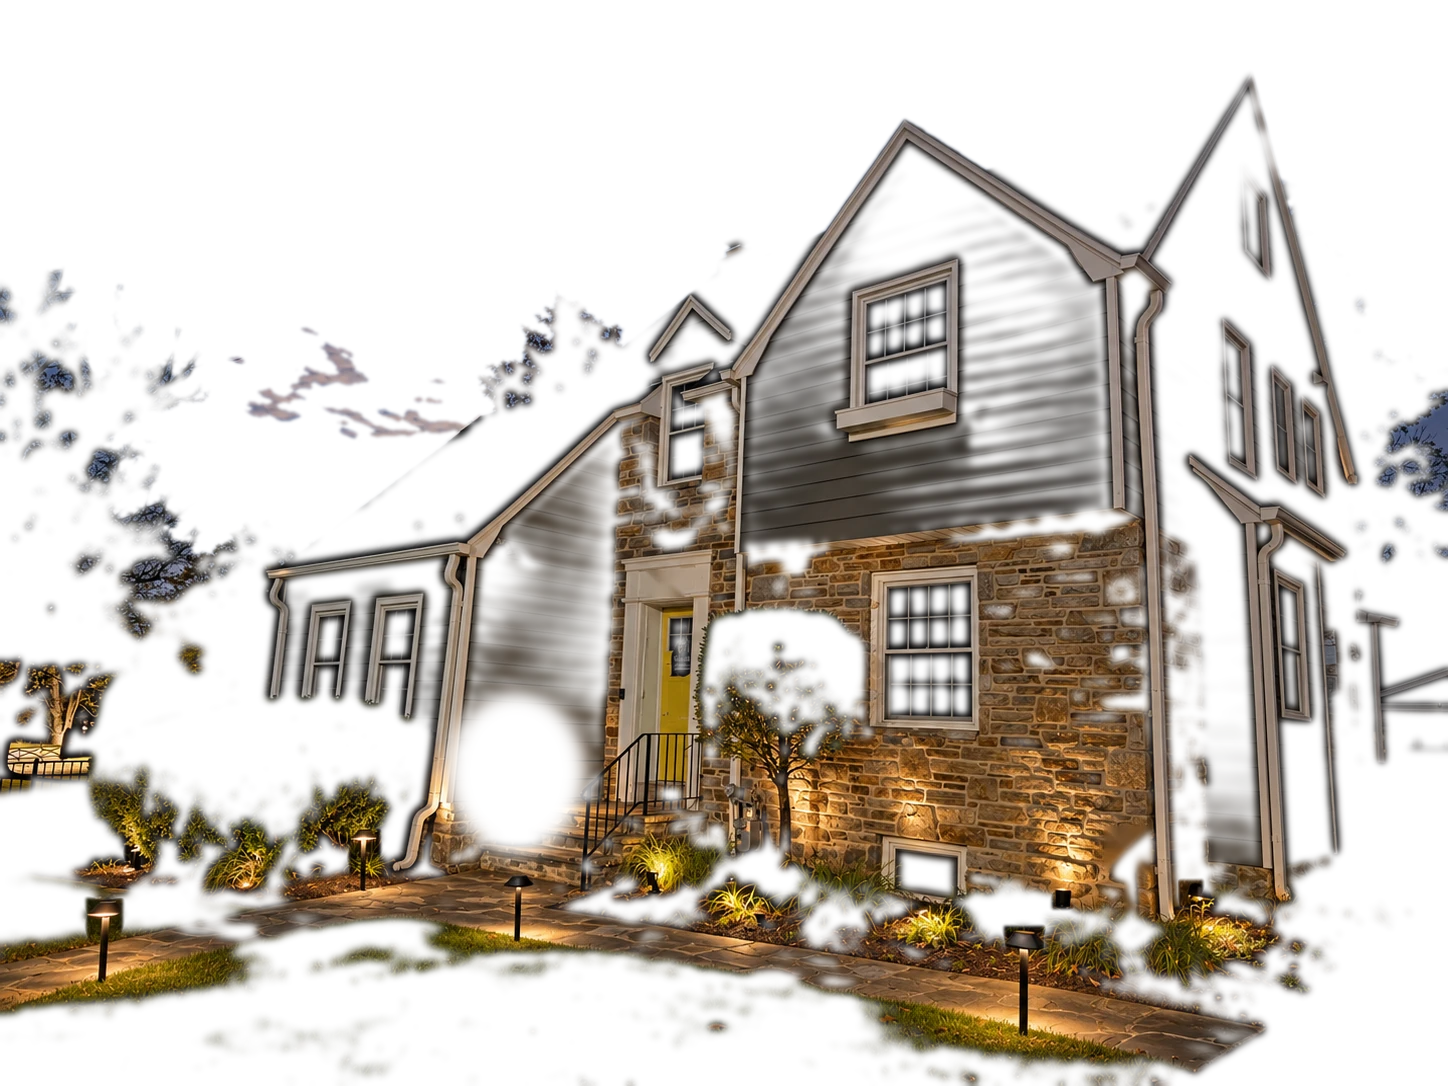
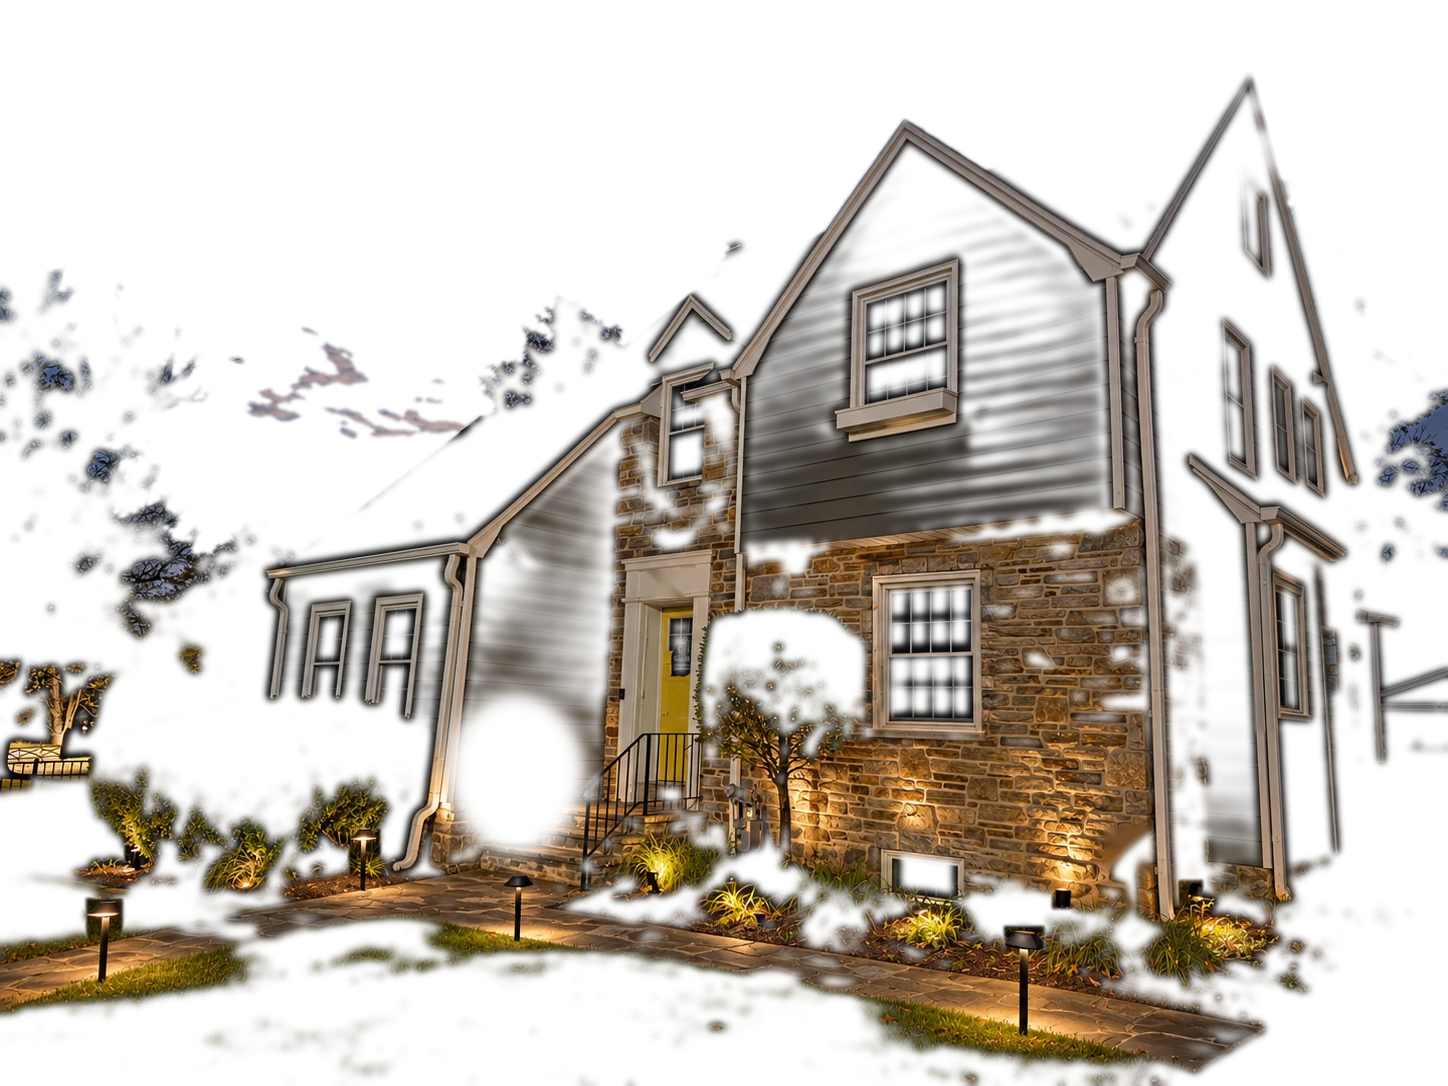
Night layers use the base's windows (no doubled grid when a layer is on)
Claude-Session: https://claude.ai/code/session_01477XfrkwMA9gQYivJ4i7xH

Changed region(s): [[0.5905, 0.4862, 0.6837, 0.6989], [0.8702, 0.5166, 0.9323, 0.6685], [0.5905, 0.7597, 0.6837, 0.8508]]

diff --git a/tools/build_night_layers.py b/tools/build_night_layers.py
@@ -110,6 +110,16 @@ ground=np.zeros((H,W),np.float32)
 cv2.fillPoly(ground,[np.array([(560,905),(700,890),(1448,880),(1448,1086),(560,1086)],np.int32)],1)
 for (x0,y0,x1,y1) in [(608,832,652,898),(664,846,708,908),(1026,866,1072,952),(1052,884,1074,910)]: cv2.rectangle(ground,(x0,y0),(x1,y1),1,-1)
 masks['stone']*=1-cv2.GaussianBlur(ground,(0,0),5)
+# Each mockup draws the windows a few pixels off from the others, so a layer
+# would lay its own frame and grid over the base's. Inside the windows every
+# layer uses the soffit mockup's window (the one in the base) and keeps only
+# its own lighting, as a smooth ratio.
+WINDOWS=[(870,560,990,735),(880,835,970,900),(1262,562,1322,725)]
+for k in ['path','stone','holiday']:
+    gain=np.clip(cv2.GaussianBlur(L[k],(0,0),10)/(cv2.GaussianBlur(L['eave'],(0,0),10)+0.002),0.4,4.0)
+    for (x0,y0,x1,y1) in WINDOWS:
+        a=np.zeros((H,W),np.float32); cv2.rectangle(a,(x0-6,y0-6),(x1+6,y1+6),1,-1); a=cv2.GaussianBlur(a,(0,0),3)[...,None]
+        L[k]=L[k]*(1-a)+L['eave']*gain*a
 for k in L:
     w=masks[k]
     layers[k]=np.clip(L[k]-mn,0,None)*w[...,None]
